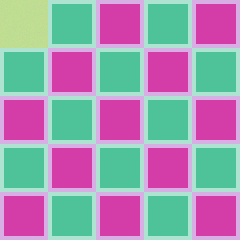
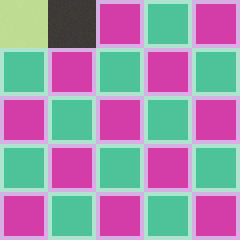
working height

Changed region(s): [[0.175, 0.0, 0.4083, 0.2042]]

diff --git a/src/scenes/WorldScene/Grid.cpp b/src/scenes/WorldScene/Grid.cpp
@@ -4,7 +4,6 @@ namespace RTS{
 
     Grid::Grid(){
        reset();
-       setPoint(1,1,0,15);
     }
 
     void Grid::reset(){
@@ -19,13 +18,37 @@ namespace RTS{
           this->world_grid[x][y] = 0;
         }
       }
+      this->updateLighting();
+    }
+
+    void Grid::updateLighting(){
+      for(int x = 0; x < (MAPSIZE+1)*(MAPSIZE+1); x++){
+        for(int y = 0; y < (MAPSIZE+1)*(MAPSIZE+1); y++){
+          this->world_lite[x][y] = Color(230,230,230);
+        }
+      }
+
+      for(int x = 1; x < (MAPSIZE+1)*(MAPSIZE+1) -1; x++){
+        for(int y = 1; y < (MAPSIZE+1)*(MAPSIZE+1) -1; y++){
+          if((this->world_grid[x][y] > this->world_grid[x+1][y]) || (this->world_grid[x][y] > this->world_grid[x][y-1])){
+            this->world_lite[x][y] = Color(200,200,200);
+          }
+
+          if((this->world_grid[x][y] > this->world_grid[x-1][y]) || (this->world_grid[x][y] > this->world_grid[x][y+1])){
+            this->world_lite[x][y] = Color(255,255,255);
+          }
+        }
+      }
     }
 
     int Grid::getTileID(int x, int y){
       return this->world_tile[x][y];
     }
 
-    int Grid::getPoint(int x, int y, char p){
+    int Grid::getPoint(int x, int y, int p){
+      if(x < 0 || x == MAPSIZE || y < 0 || y == MAPSIZE){
+        return 0;
+      }
       switch(p){
         case 0: return this->world_grid[x+0][y+0]; break;
         case 1: return this->world_grid[x+1][y+0]; break;
@@ -39,13 +62,68 @@ namespace RTS{
       this->world_tile[x][y] = value;
     }
 
-    void Grid::setPoint(int x, int y, char p, int value){
+    void Grid::setPoint(int x, int y, int p, int value){
       switch(p){
         case 0: this->world_grid[x+0][y+0] = value; break;
         case 1: this->world_grid[x+1][y+0] = value; break;
         case 2: this->world_grid[x+1][y+1] = value; break;
         case 3: this->world_grid[x+0][y+1] = value; break;
       }
+      this->updateLighting();
+    }
+
+    void Grid::setTileHeight(int x, int y, int value){
+      this->world_grid[x+0][y+0] = value;
+      this->world_grid[x+1][y+0] = value;
+      this->world_grid[x+1][y+1] = value;
+      this->world_grid[x+0][y+1] = value; 
+      this->updateLighting();
+    }
+
+    void Grid::setTileAreaHeight(int x, int y, int value, int area){
+      for(int xx = 0; xx < MAPSIZE; xx++){
+        for(int yy = 0; yy < MAPSIZE; yy++){
+          this->setTileHeight(x + xx, y + yy, value);
+        }
+      }
+    }
+
+    void Grid::setTileCircleAreaHeight(int a, int b, int value, int area){
+      for(int x = 0; x < MAPSIZE; x++){
+        for(int y = 0; y < MAPSIZE; y++){
+
+         if ( ( pow((x-a),2) + pow((y-b),2) - pow(area,2) ) < pow(EPSILON,2)){
+          this->setTileHeight(x, y, value);
+         }
+
+        }
+      }
+      this->updateLighting();
+    }
+
+    void Grid::setTileCircleAreaID(int a, int b, int value, int area){
+
+      for(int x = 0; x < MAPSIZE; x++){
+        for(int y = 0; y < MAPSIZE; y++){
+
+         if ( ( pow((x-a),2) + pow((y-b),2) - pow(area,2) ) < pow(EPSILON,2)){
+          this->setTileID(x, y, value);
+         }
+
+        }
+      }
+
+    }
+
+
+    Color Grid::getPointColor(int x, int y, int p){
+      switch(p){
+        case 0: return this->world_lite[x+0][y+0]; break;
+        case 1: return this->world_lite[x+1][y+0]; break;
+        case 2: return this->world_lite[x+1][y+1]; break;
+        case 3: return this->world_lite[x+0][y+1]; break;
+      }
+      return Color(255,255,255);
     }
    
  }

diff --git a/src/rendering/GridRendering.cpp b/src/rendering/GridRendering.cpp
@@ -29,7 +29,7 @@ namespace RTS{
 
               this->gl_vertexfx = &gl_vertexes[((MAPSIZE * y) + x) * 4];
 
-              int tile = 0;
+              int tile = this->grid->getTileID(x,y);
               int tx = tile % (gl_texture.getSize().x / TILEW);
               int ty = tile / (gl_texture.getSize().x / TILEW);
 
@@ -38,10 +38,14 @@ namespace RTS{
               this->gl_vertexfx[2].position = Vector2f(fx , fy + TILEH - this->grid->getPoint(x, y, 2));
               this->gl_vertexfx[3].position = Vector2f(fx - (TILEW / 2), fy + (TILEH / 2) - this->grid->getPoint(x, y, 3));
 
-              this->gl_vertexfx[0].texCoords = Vector2f(tx * TILEW, ty * TILEW);
-              this->gl_vertexfx[1].texCoords = Vector2f((tx+1) * TILEW, ty * TILEW);
-              this->gl_vertexfx[2].texCoords = Vector2f((tx+1) * TILEW, (ty+1) * TILEW);
-              this->gl_vertexfx[3].texCoords = Vector2f(tx * TILEW, (ty+1) * TILEW);
+              this->gl_vertexfx[0].texCoords = Vector2f((tx+0) * (TILEW+2), (ty+0) * (TILEW+2));
+              this->gl_vertexfx[1].texCoords = Vector2f((tx+1) * (TILEW-2), (ty+0) * (TILEW+2));
+              this->gl_vertexfx[2].texCoords = Vector2f((tx+1) * (TILEW-2), (ty+1) * (TILEW-2));
+              this->gl_vertexfx[3].texCoords = Vector2f((tx+0) * (TILEW+2), (ty+1) * (TILEW-2));
+
+              for(int c = 0; c<4 ;c++){
+                this->gl_vertexfx[c].color = this->grid->getPointColor(x, y, c);
+              }
 
               for(unsigned int fc = 0; fc < 4; fc++){
                 Vector2f fp = this->gameManager->getWindow()->mapPixelToCoords(

diff --git a/include/scenes/WorldScene/Grid.hpp b/include/scenes/WorldScene/Grid.hpp
@@ -1,25 +1,37 @@
 #ifndef RTS_GAME_SCENE_WORLD_GRID
 #define RTS_GAME_SCENE_WORLD_GRID
+#include <SFML/Graphics.hpp>
+#include <cmath>
 
 #define MAPSIZE 32
+#define EPSILON 2
 #define TILEW 48
 #define TILEH 24
+
+using namespace sf;
 
 namespace RTS{
 
     class Grid{
 
     private:
-        int world_tile[MAPSIZE][MAPSIZE];
-        int world_grid[(MAPSIZE + 1)*(MAPSIZE + 1)][(MAPSIZE + 1)*(MAPSIZE + 1)];
+        int   world_tile[MAPSIZE][MAPSIZE];
+        int   world_grid[(MAPSIZE + 1)*(MAPSIZE + 1)][(MAPSIZE + 1)*(MAPSIZE + 1)];
+        Color world_lite[(MAPSIZE + 1)*(MAPSIZE + 1)][(MAPSIZE + 1)*(MAPSIZE + 1)];
 
     public:
       Grid();
       void reset();
+      void updateLighting();
       int getTileID(int, int);
-      int getPoint(int, int, char);
+      int getPoint(int, int, int);
       void setTileID(int, int, int);
-      void setPoint(int, int, char, int);
+      void setPoint(int, int, int, int);
+      void setTileHeight(int, int, int);
+      void setTileAreaHeight(int, int, int, int);
+      void setTileCircleAreaHeight(int, int, int, int);
+      void setTileCircleAreaID(int, int, int, int);
+      Color getPointColor(int, int, int);
 
    };
 

diff --git a/src/scenes/WorldScene.cpp b/src/scenes/WorldScene.cpp
@@ -7,6 +7,10 @@ namespace RTS{
       this->camera        = new Camera(this->gameManager->getWindow());
       this->debugging     = new BaseRendering(this->gameManager);
       this->gridRenderer  = new GridRendering(this->gameManager, this->grid, this->camera);
+      /*this->grid->setTileCircleAreaHeight(8, 8, 5, 5);
+      this->grid->setTileCircleAreaHeight(8, 8, 10, 4);
+      this->grid->setTileCircleAreaHeight(8, 8, 15, 3);
+      this->grid->setTileCircleAreaID(8, 8, 1, 5);*/
    }
 
    WorldScene::~WorldScene(){
